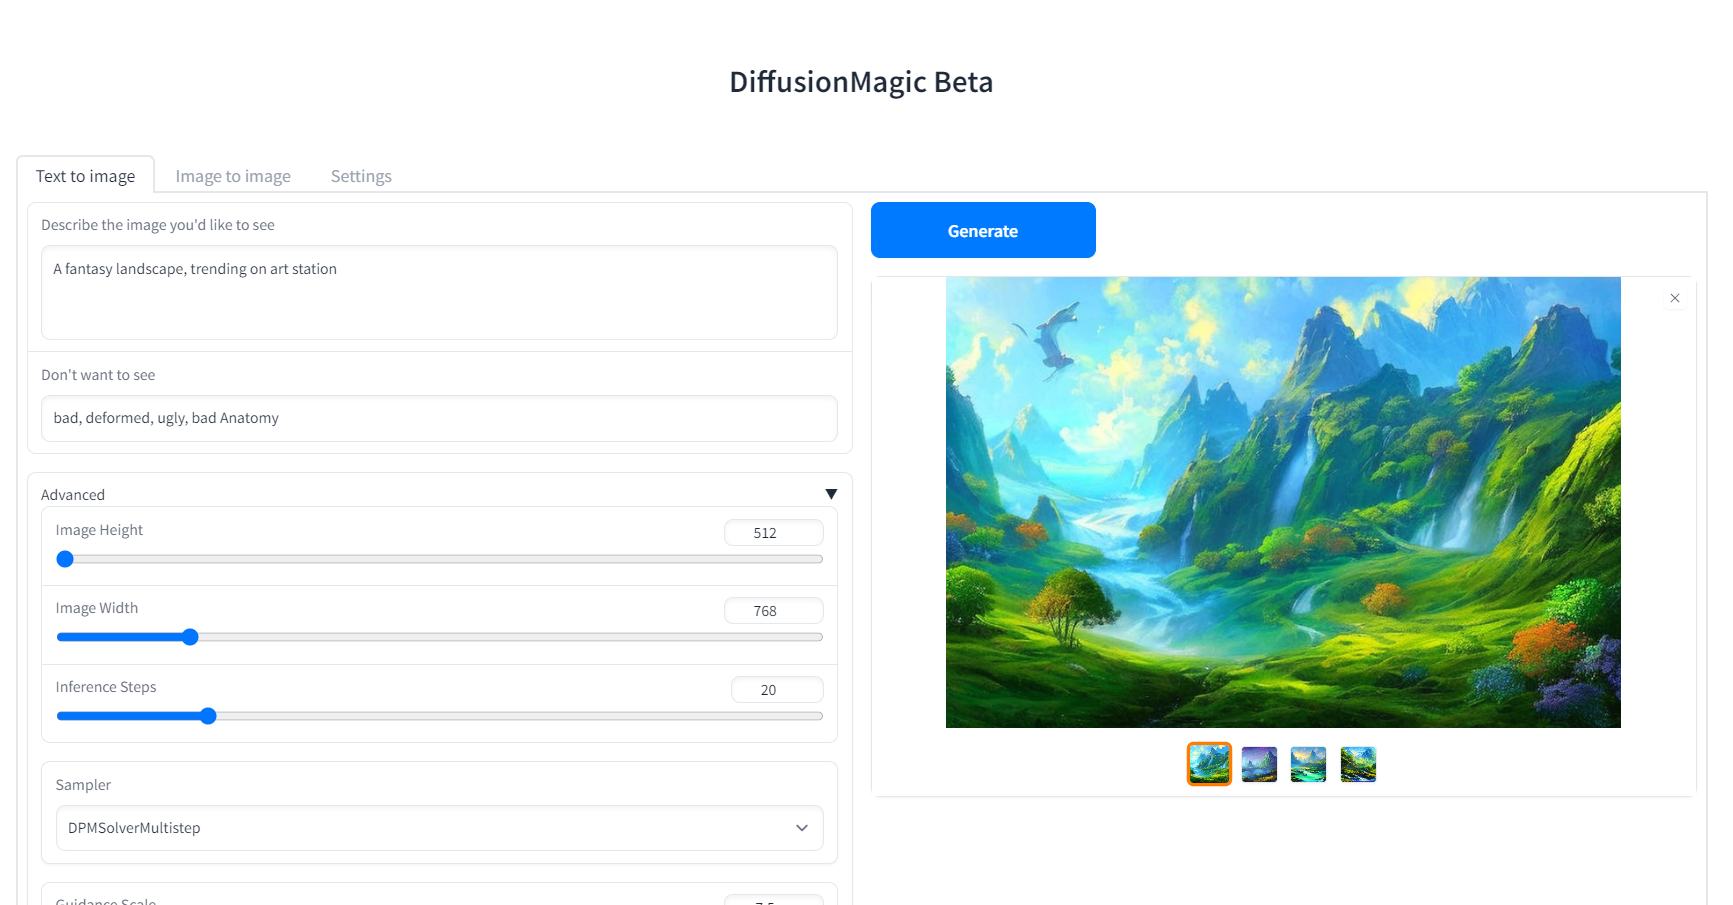
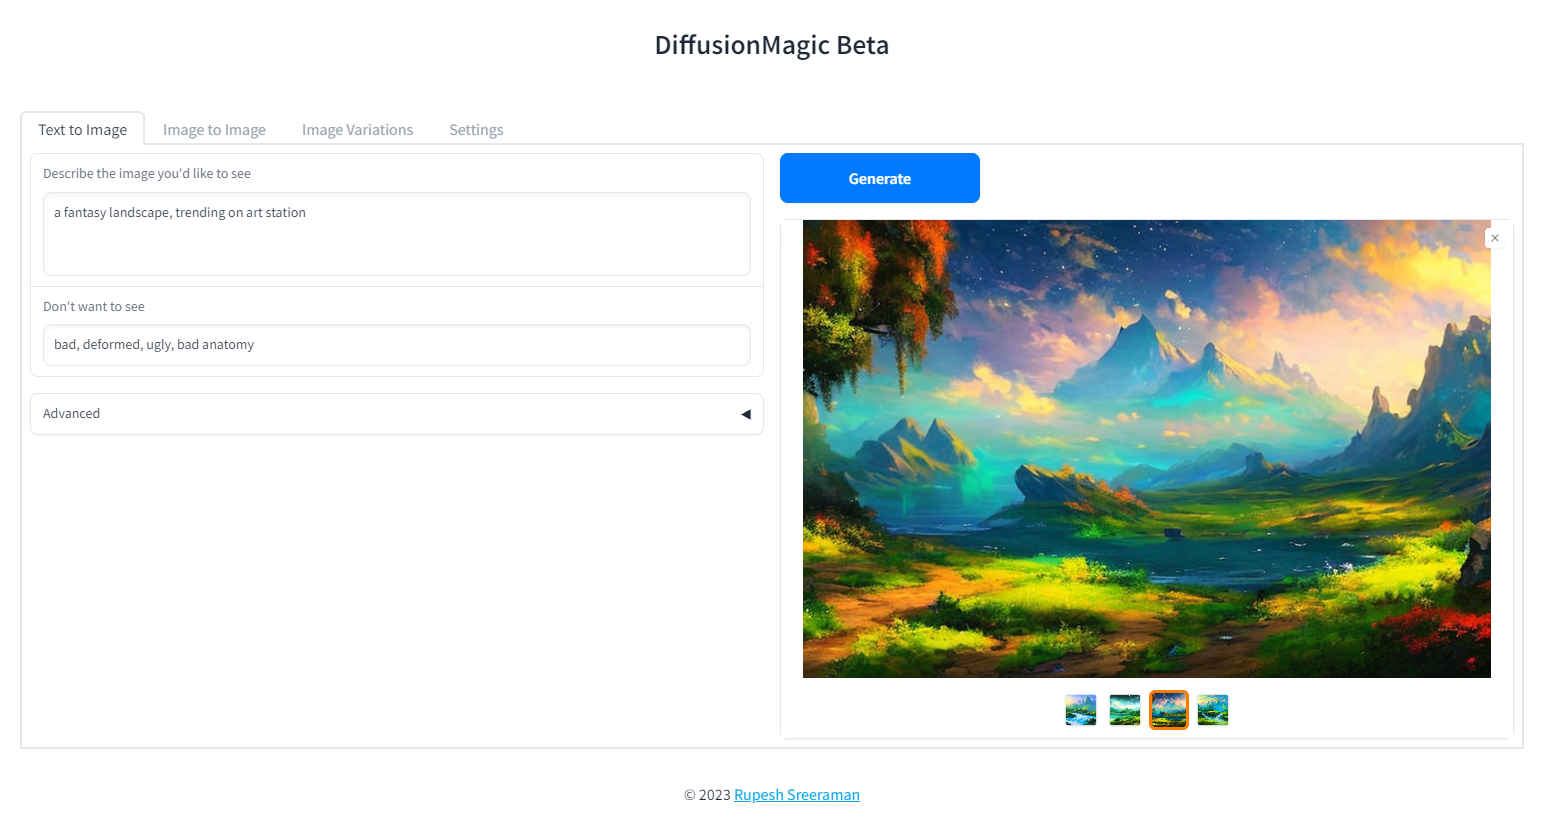
mypy,flake corrections,updated main screenshot

diff --git a/src/frontend/web/settings_ui.py b/src/frontend/web/settings_ui.py
@@ -54,8 +54,12 @@ def get_settings_ui() -> None:
                     label="Save in images in seperate folders (text2img,img2img etc)",
                     value=app_settings.output_images.use_seperate_folders,
                 )
+                vram_label = (
+                    "Enable Low VRAM mode (GPUs with VRAM <4GB,"
+                    "slower to generate images) (Restart required)"
+                )
                 enable_low_vram = gr.Checkbox(
-                    label="Enable Low VRAM mode (GPUs with VRAM <4GB, slower to generate images) (Restart required)",
+                    label=vram_label,
                     value=app_settings.low_memory_mode,
                 )
                 with gr.Column():

diff --git a/src/frontend/web/ui.py b/src/frontend/web/ui.py
@@ -43,7 +43,9 @@ def diffusionmagic_web_ui(generate: Generate) -> gr.Blocks:
                     get_instruct_pix_to_pix_ui(generate.diffusion_pix_to_pix)
             with gr.TabItem("Settings"):
                 get_settings_ui()
-        gr.HTML(
-            '<center><p>© 2023 <a href="https://github.com/rupeshs">Rupesh Sreeraman</a></p></center>'
+        footer_mesage = (
+            '<center><p>© 2023 <a href="https://github.com/rupeshs">'
+            "Rupesh Sreeraman</a></p></center>"
         )
+        gr.HTML(footer_mesage)
     return diffusion_magic_ui

diff --git a/src/backend/stablediffusion/stablediffusion.py b/src/backend/stablediffusion/stablediffusion.py
@@ -112,9 +112,9 @@ class StableDiffusion(SamplerMixin):
             self.img_to_img_pipeline.disable_attention_slicing()  # type: ignore
 
         if setting.vae_slicing:
-            self.pipeline.enable_vae_slicing()
+            self.pipeline.enable_vae_slicing()  # type: ignore
         else:
-            self.pipeline.disable_vae_slicing()
+            self.pipeline.disable_vae_slicing()  # type: ignore
 
         init_image = setting.image.resize(
             (

diff --git a/Readme.md b/Readme.md
@@ -25,6 +25,8 @@ StableDiffusion workflows using Diffusers.
 - 12 GB System RAM
 ~11 GB disk space after installation (on SSD for best performance)
 ## Screenshots
+## Image variations
+ ![  Image variations](https://raw.githubusercontent.com/rupeshs/diffusionmagic/main/docs/images/diffusion_magic_image_variations.PNG)
 ## Image Inpainting
  ![ Image Inpainting](https://raw.githubusercontent.com/rupeshs/diffusionmagic/main/docs/images/diffusion_magic_inpainting.PNG)
 ## Depth to Image
